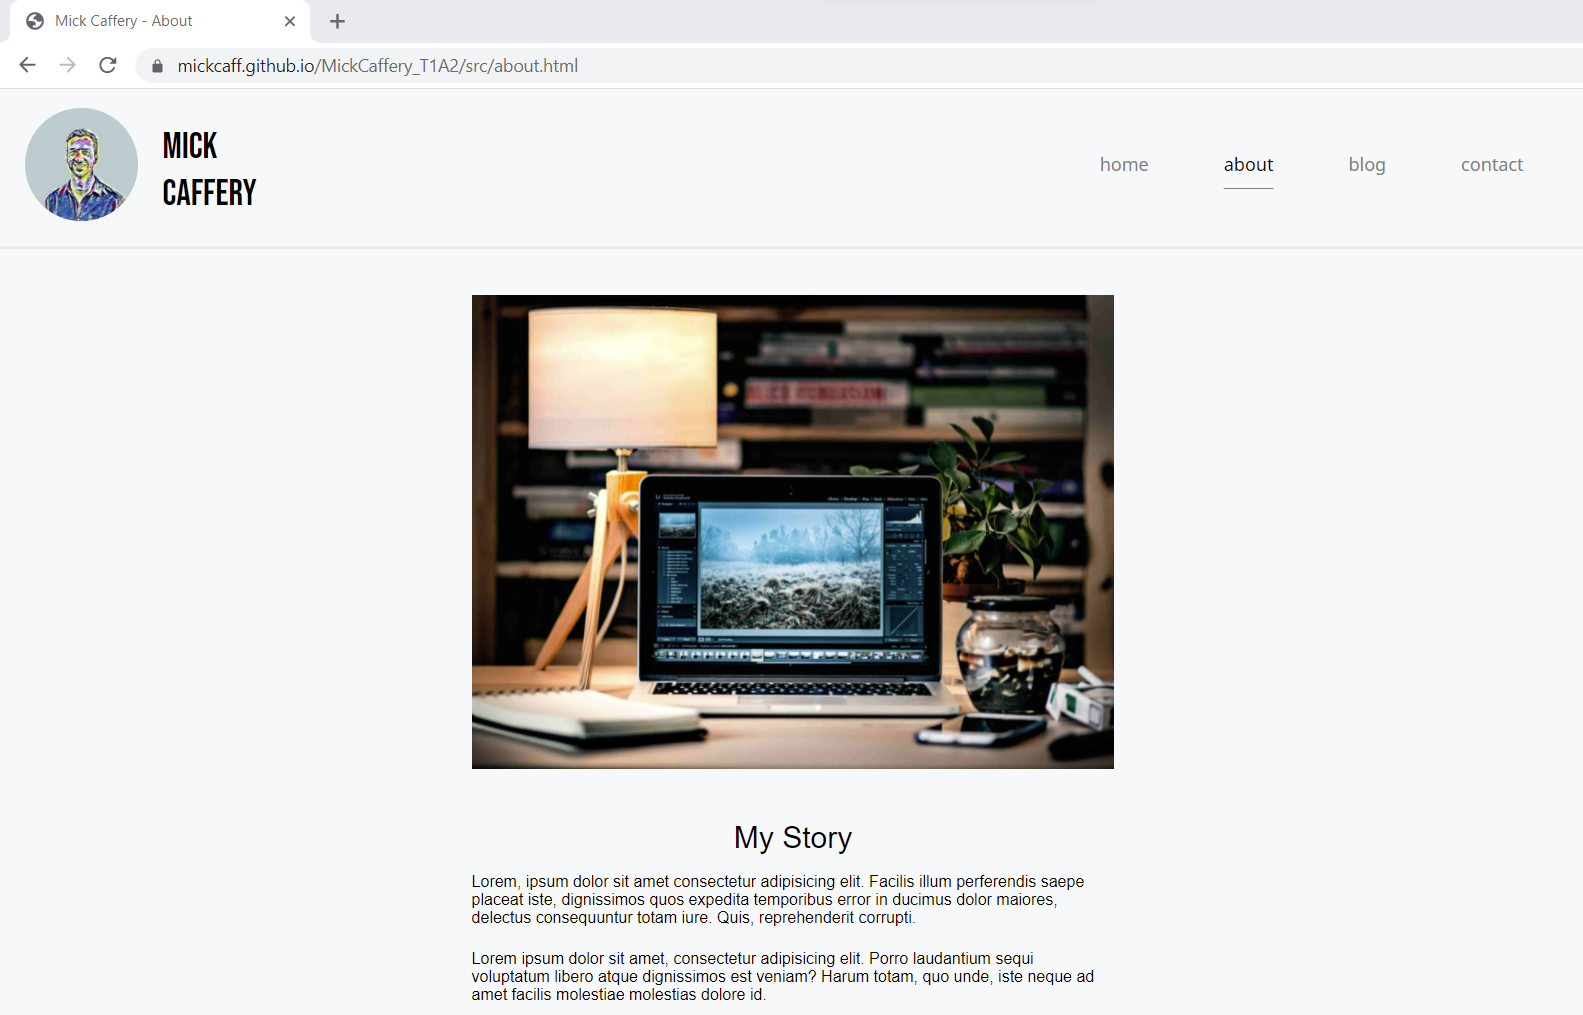
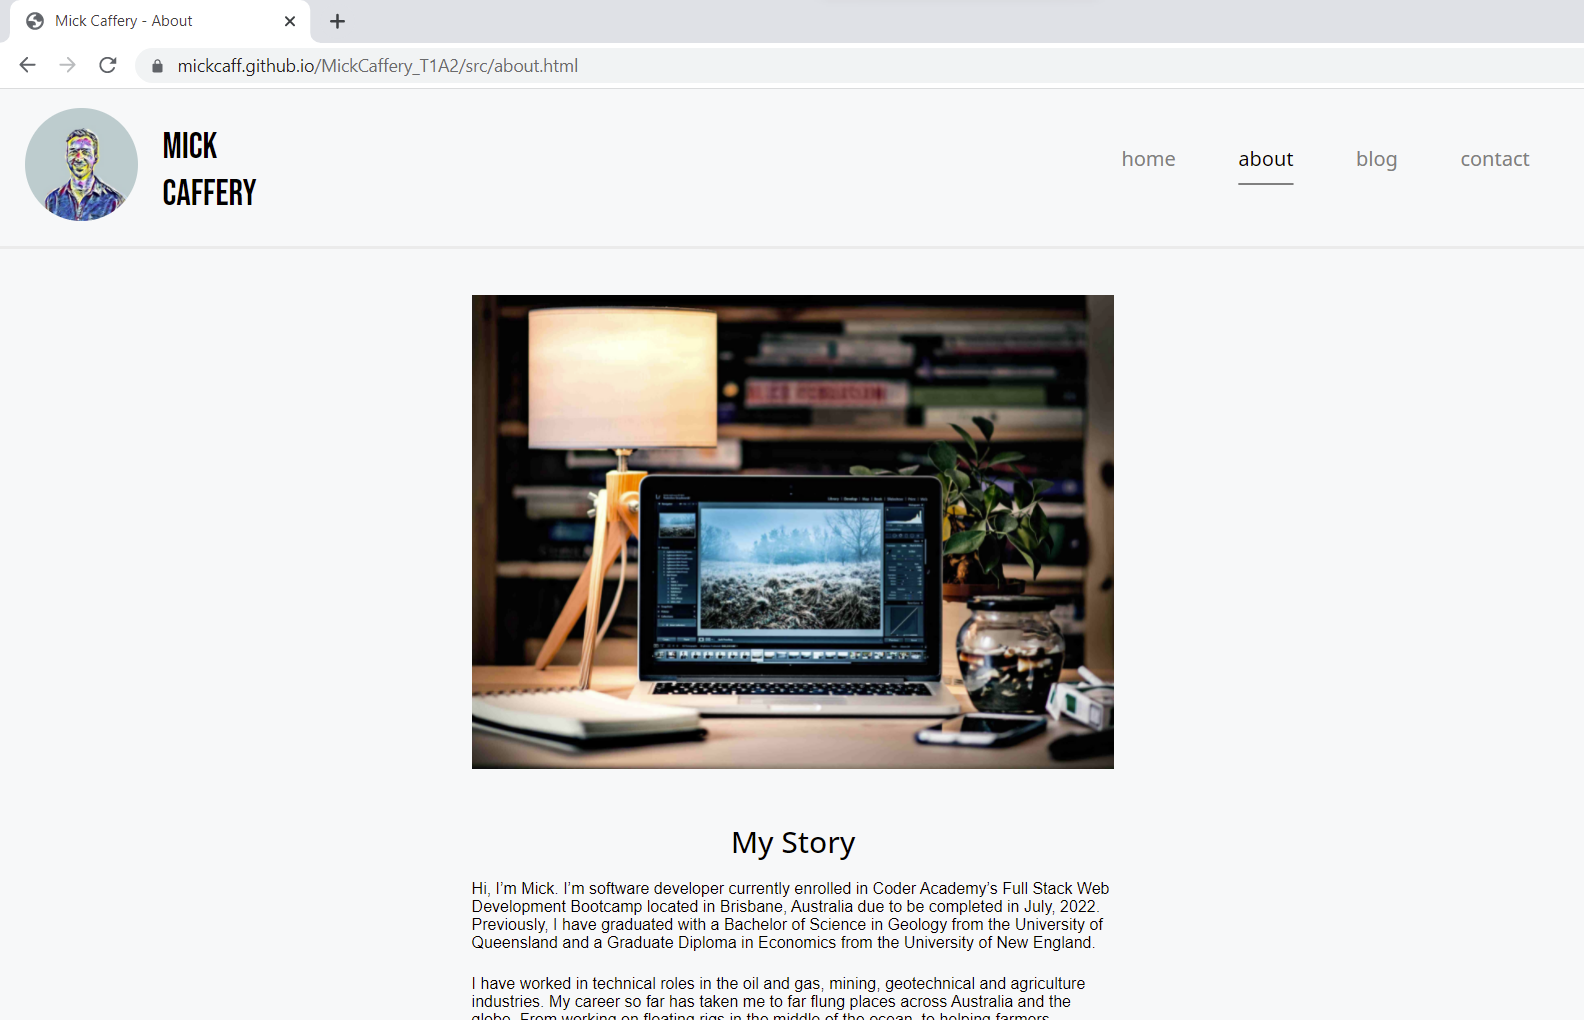
Updated README and website screenshots

diff --git a/README.md b/README.md
@@ -10,7 +10,7 @@
 
 # Purpose
 
-The purpose of this website is to showcase myself as a software developer to employers in the software industry, and prospective clients. The website provides information about my professional background, skills, interest and coding abilities.
+The purpose of this website is to showcase myself as a software developer to employers, and prospective clients. The website provides information about my professional background, skills, interest and coding abilities.
 
 
 # Functionality / features
@@ -19,11 +19,11 @@ The website has adopted a simple and classic aesthetic with a common theme, so a
 
 ### The website contains the following features:
 
-- A simple **navigation header** displays my name and navigational links. This is used to navigate between all the main pages. 
+- A simple **navigation header** displays my name, avatar and navigational links. This is used to navigate between all the main pages. 
 
-- The **Home page** contains a hero photo of myself and the short introductory paragraph, followed by a link to my pdf resume. The home page footer contains links to my LinkedIn and GitHub accounts. 
+- The **home page** contains a hero photo of myself and the short introductory paragraph, followed by a link to my pdf resume. The home page footer contains links to my LinkedIn and GitHub accounts. 
 
-- The **about page** details my professional backstory, along with information about my interests, skills, professional experience and tech stack. 
+- The **about page** details my professional backstory, along with information about my interests, development skills, and tech stack. 
 
 - The **blog page** simply lays out all blog posts in a grid formation. Each blog has a hero photo which is clearly displayed on a square tile, with blog title and date overlayed. 
 
@@ -34,7 +34,7 @@ The website has adopted a simple and classic aesthetic with a common theme, so a
 
 # Sitemap
 
-As the sitemap below details, each page is linked to each other. The blog posts are linked to the blog page. LinkedIn, GitHub and Resume PDF are linked externally to a new tab. 
+As the sitemap below details how each page is linked to each other. The main pages can be navigated to from any of the main pages. The blog posts are linked to the blog page. LinkedIn, GitHub and Resume PDF are linked externally to a new tab. 
 
 ![Sitemap](docs/T1A2-Portfolio.drawio.png)
 
@@ -78,4 +78,4 @@ The target audiences are prospective clients and employers. I have made the assu
 
 # Tech stack
 
-The site was built and styled by myself with basic **HTML** and **CSS**. The site has been deployed on **GitHub Pages**. 
+The site was built and styled by myself with basic **HTML** and **CSS**. There was no use of any framework. The site has been deployed on **GitHub Pages**. 
